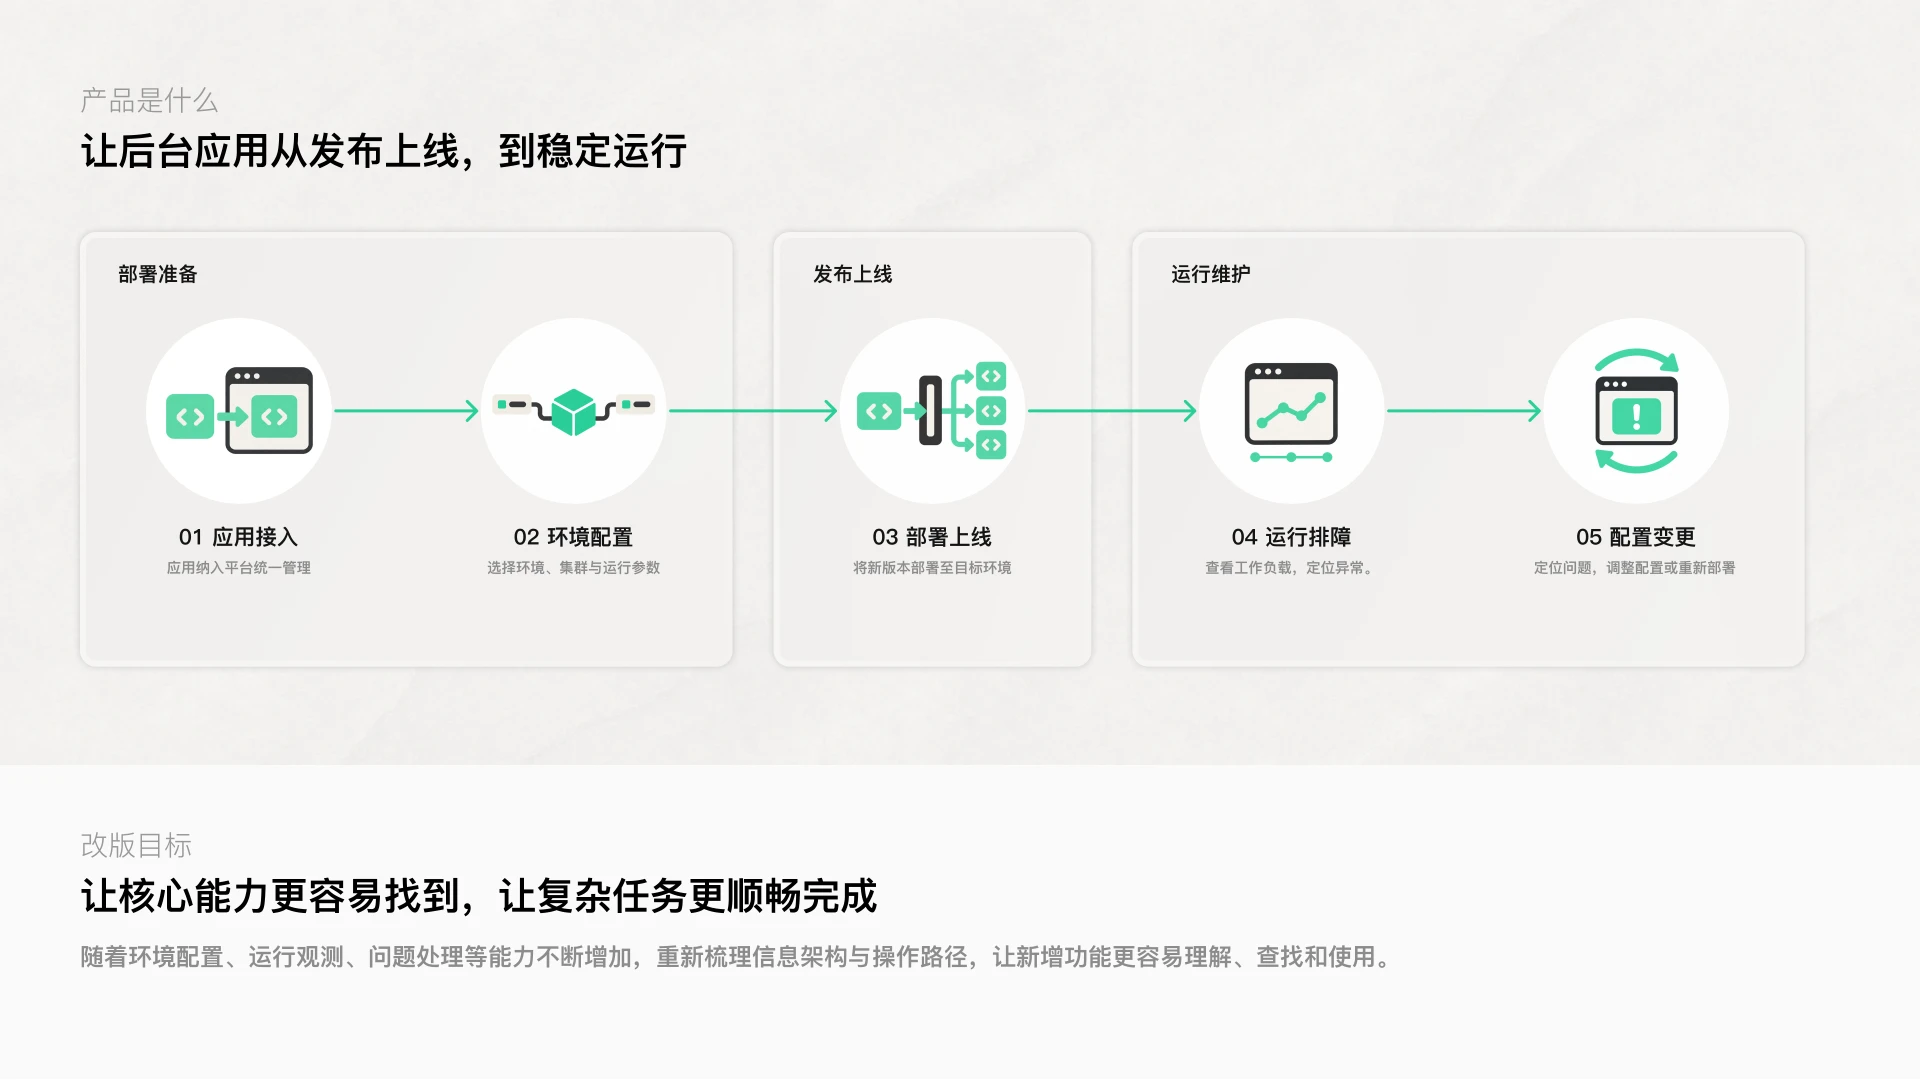
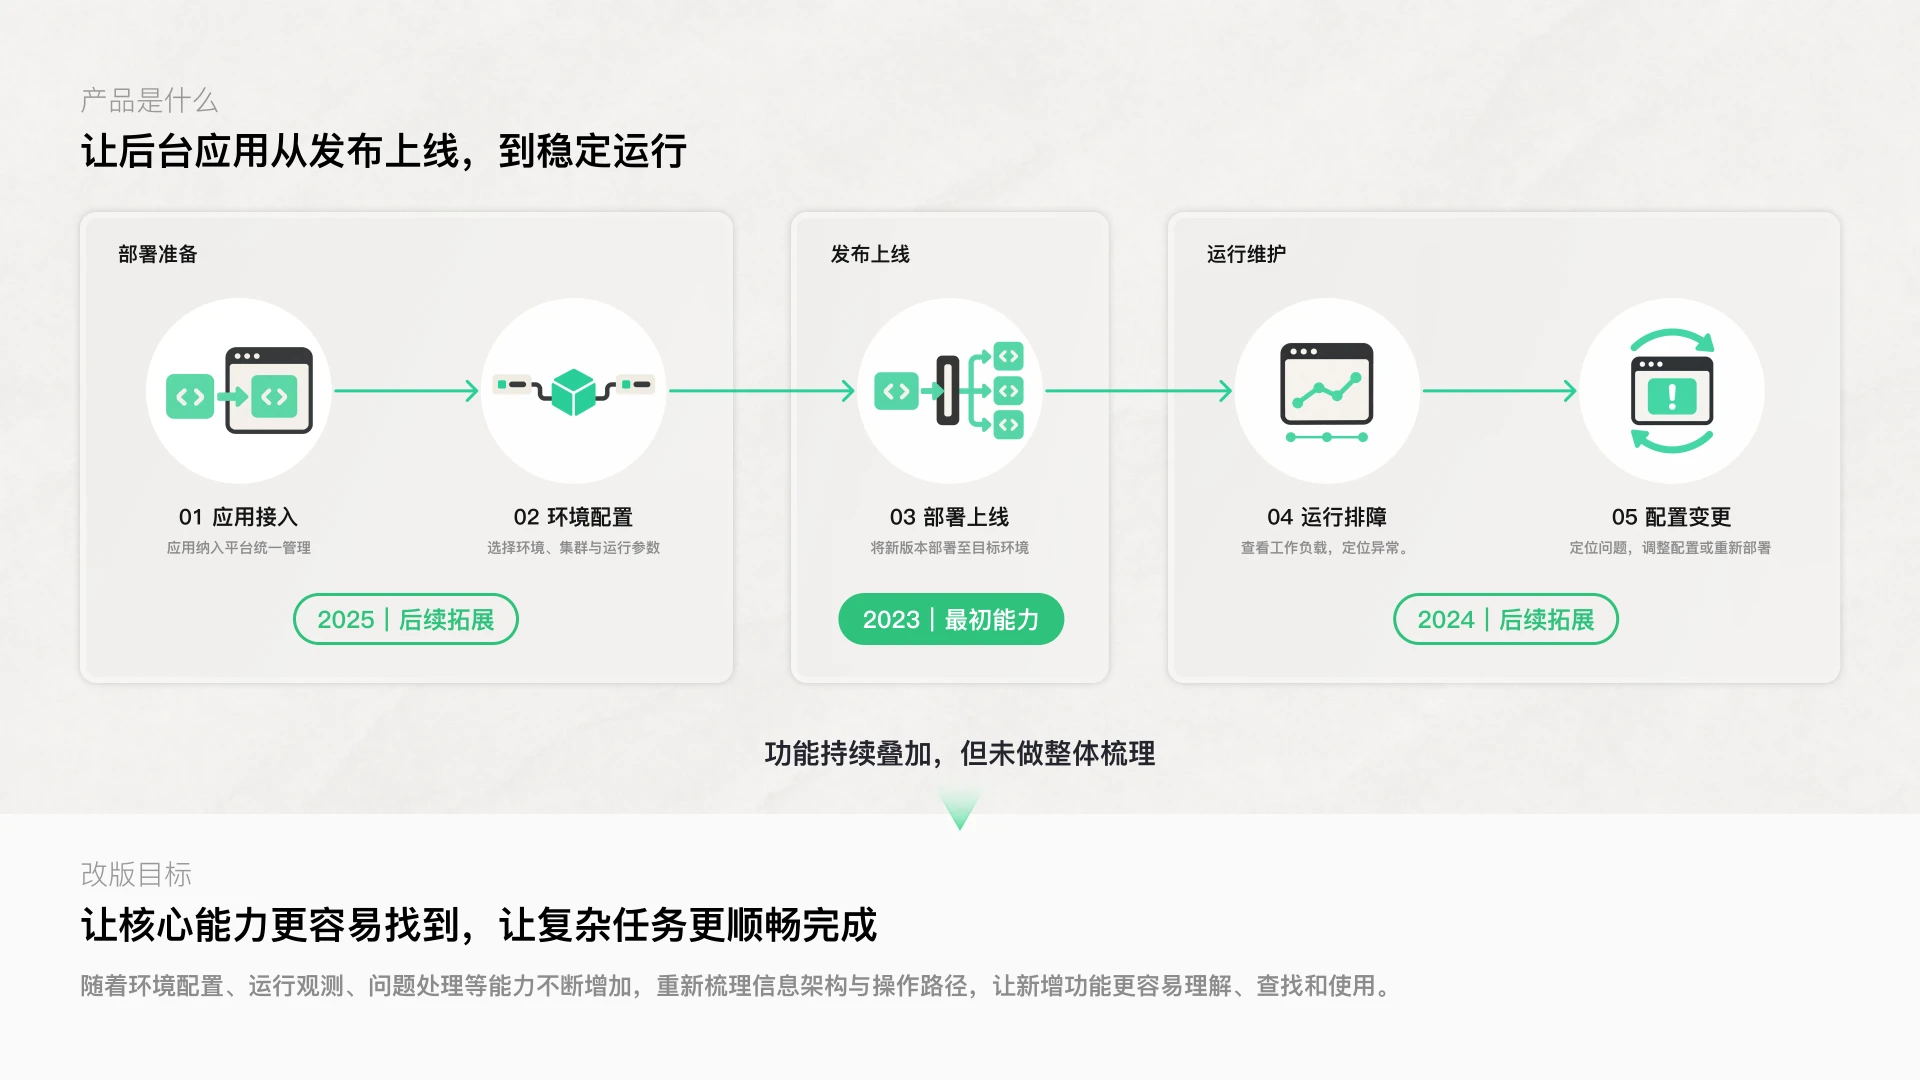
更新 CNAP 与 Dodo 案例页面

diff --git a/pages/cnap-case.html b/pages/cnap-case.html
@@ -22,7 +22,7 @@
     <main id="top">
       <section class="slides" aria-label="CNAP 云原生工作负载管理项目案例">
         <img src="../assets/cnap-case/page-01-update.webp?v=20260917-1" alt="CNAP 云原生工作负载管理项目概览" data-section-kicker="项目开篇" data-section-title="复杂 B 端系统体验重构" width="1920" height="1080" fetchpriority="high" decoding="async" />
-        <img data-src="../assets/cnap-case/page-02-update.webp?v=20260922-1" alt="CNAP 产品从发布上线到稳定运行的完整流程" data-section-kicker="产品是什么" data-section-title="让后台应用从发布上线，到稳定运行" width="1920" height="1080" loading="lazy" decoding="async" />
+        <img data-src="../assets/cnap-case/page-02-update.webp?v=20260927-2" alt="CNAP 产品从发布上线到稳定运行的完整流程" data-section-kicker="产品是什么" data-section-title="让后台应用从发布上线，到稳定运行" width="1920" height="1080" loading="lazy" decoding="async" />
         <img data-src="../assets/cnap-case/page-03-update.webp?v=20260918-2" alt="CNAP 初期困难与体验短板：看懂产品，却看不懂用户" data-section-kicker="初期困难" data-section-title="看懂产品，却看不懂用户" width="1920" height="1080" loading="lazy" decoding="async" />
         <img data-src="../assets/cnap-case/page-04-update.webp?v=20260922-1" alt="CNAP 用户访谈：明确改版问题" data-section-kicker="用户访谈" data-section-title="访谈4名用户，明确改版问题" width="1920" height="1080" loading="lazy" decoding="async" />
         <img data-src="../assets/cnap-case/page-05-update.webp?v=20260917-1" alt="CNAP 设计成果：信息各归其位，任务一眼可见" data-section-kicker="设计成果一" data-section-title="信息各归其位，任务一眼可见" width="1920" height="1080" loading="lazy" decoding="async" />

diff --git a/pages/dodo.html b/pages/dodo.html
@@ -45,7 +45,7 @@
         <img id="dodo-slide-3" data-src="../assets/dodo/pages/page-03.webp?v=20260911-01" alt="根据任务条件，选择不同的设计工作方式" width="1920" height="1080" loading="lazy" decoding="async" />
         <img id="dodo-slide-4" data-src="../assets/dodo/pages/page-04.webp?v=20260915-1" alt="AI 能生成页面，但不了解产品" width="1920" height="1080" loading="lazy" decoding="async" />
         <img id="dodo-slide-5" data-src="../assets/dodo/pages/page-05.webp" alt="Agent 体验原则" width="1920" height="1080" loading="lazy" decoding="async" />
-        <img id="dodo-slide-6" data-src="../assets/dodo/pages/page-06.webp" alt="规范与元素层知识体系基座" width="1920" height="1080" loading="lazy" decoding="async" />
+        <img id="dodo-slide-6" data-src="../assets/dodo/pages/page-06.webp?v=20260922-1" alt="规范与元素层知识体系基座" width="1920" height="1080" loading="lazy" decoding="async" />
         <img id="dodo-slide-7" data-src="../assets/dodo/pages/page-07.webp" alt="Agent 体验原则与产品规范应用结果" width="1920" height="1080" loading="lazy" decoding="async" />
         <img id="dodo-slide-8" data-src="../assets/dodo/pages/page-08.webp?v=20260920-1" alt="如何把一次交付，变成可复制的能力" width="1920" height="1080" loading="lazy" decoding="async" />
         <div id="dodo-slide-9" class="case-slide-frame dodo-download-slide" aria-label="AI 设计工作流与 Skills">
